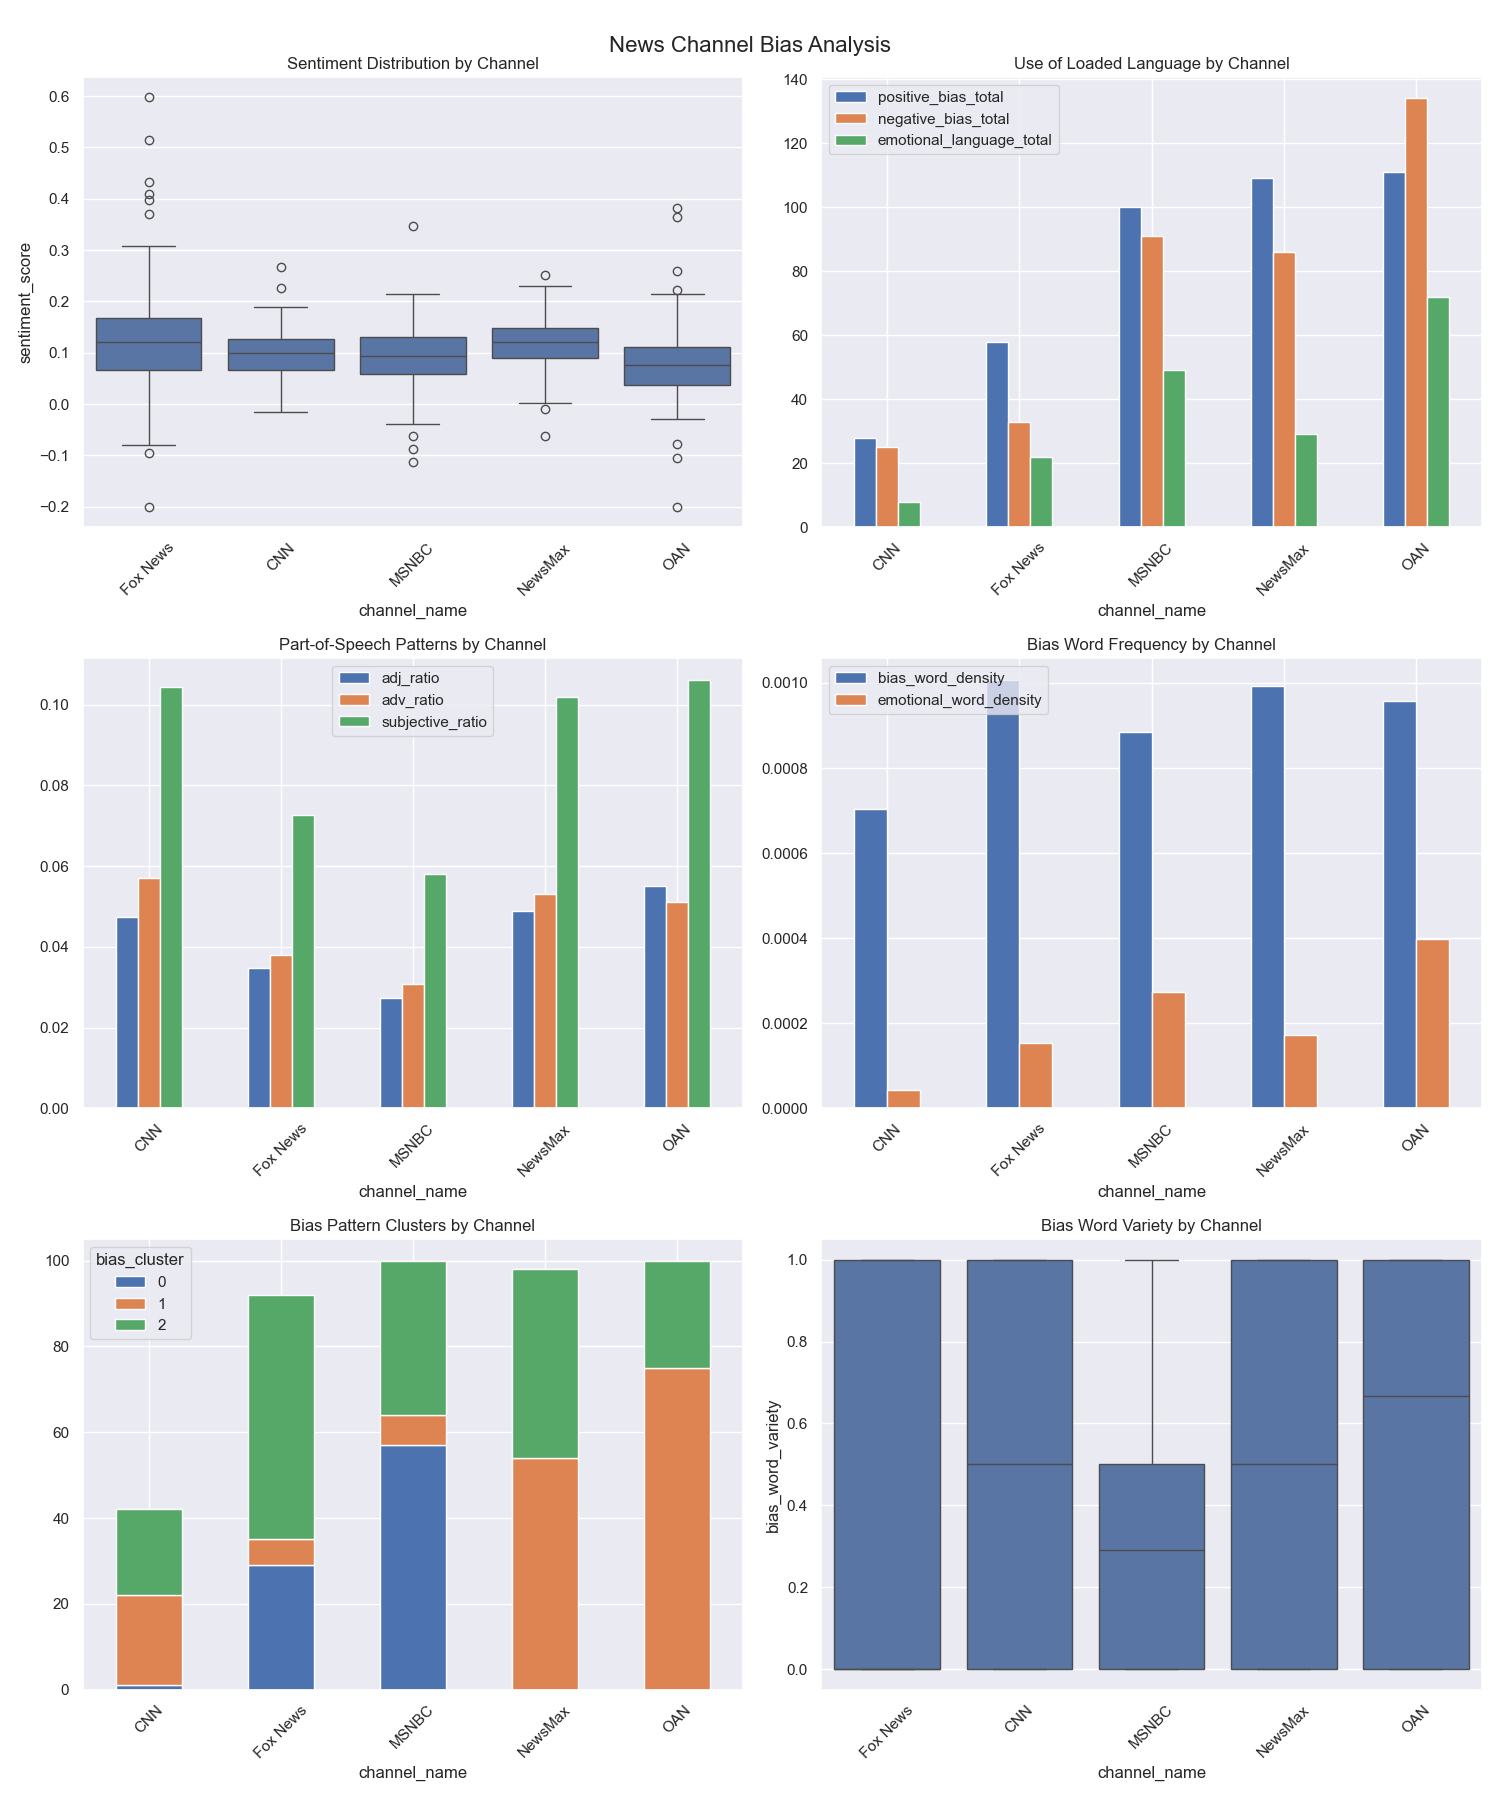
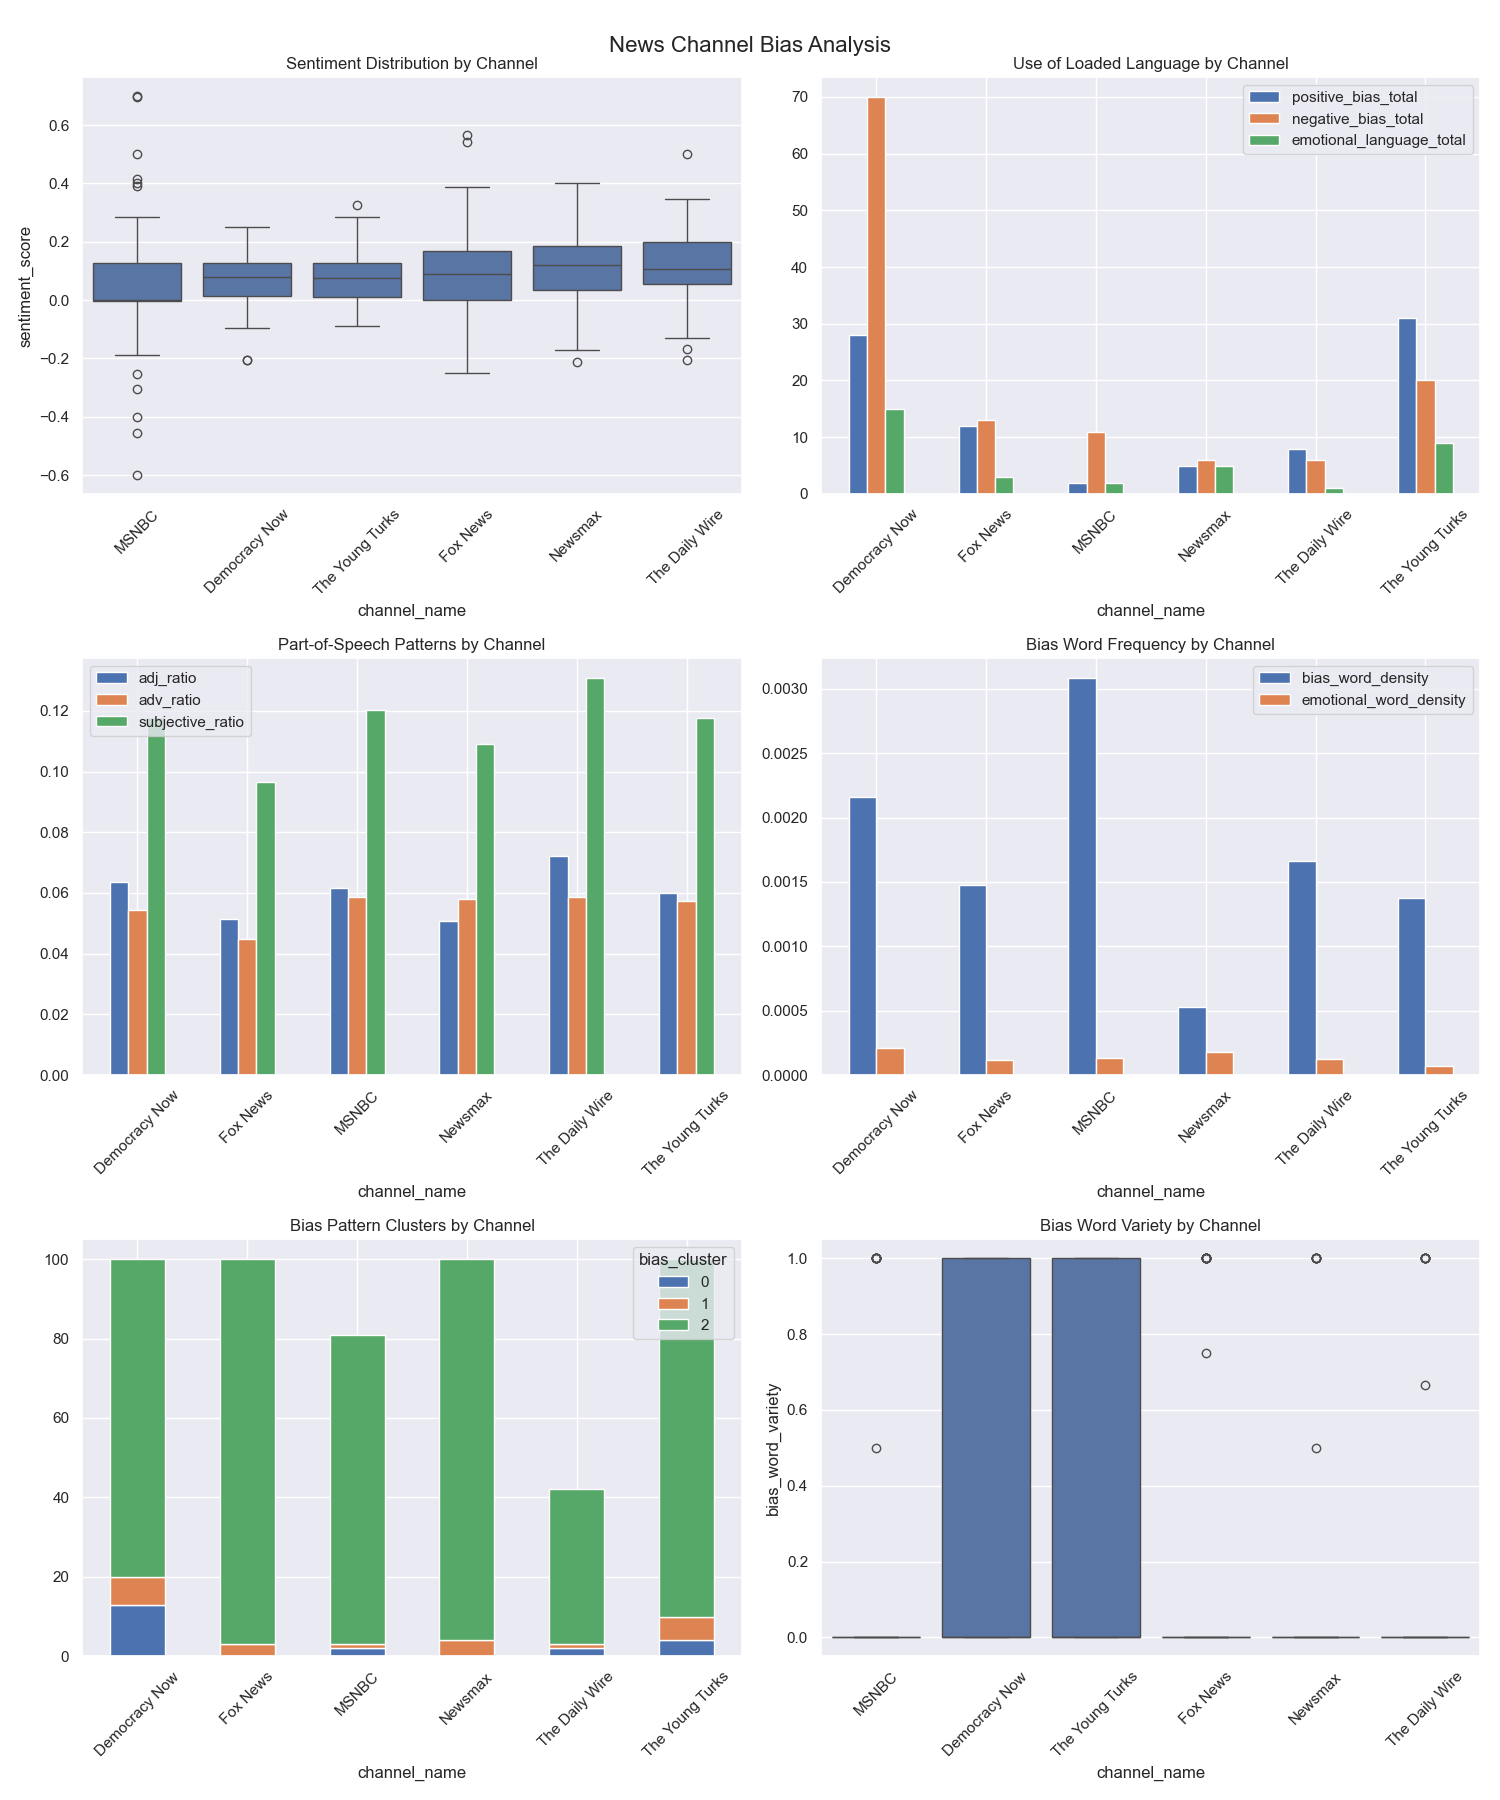
second run of bias analysis on new dataset

diff --git a/bias_analyzer.py b/bias_analyzer.py
@@ -334,8 +334,11 @@ class BiasAnalyzer:
         print(f"- Emotional content: {cluster_char['emotional_content']:.3f}")
 
 def main():
-    # Initialize analyzer with your CSV file
-    analyzer = BiasAnalyzer('news_transcripts_20250301_163102.csv')
+    # Use the latest combined dataset from speech crawler
+    data_file = 'data/all_channels_20250311_151308.csv'
+    
+    print(f"Running bias analysis on {data_file}...")
+    analyzer = BiasAnalyzer(data_file)
     
     # Run analysis pipeline
     analyzer.analyze_sentiment()
